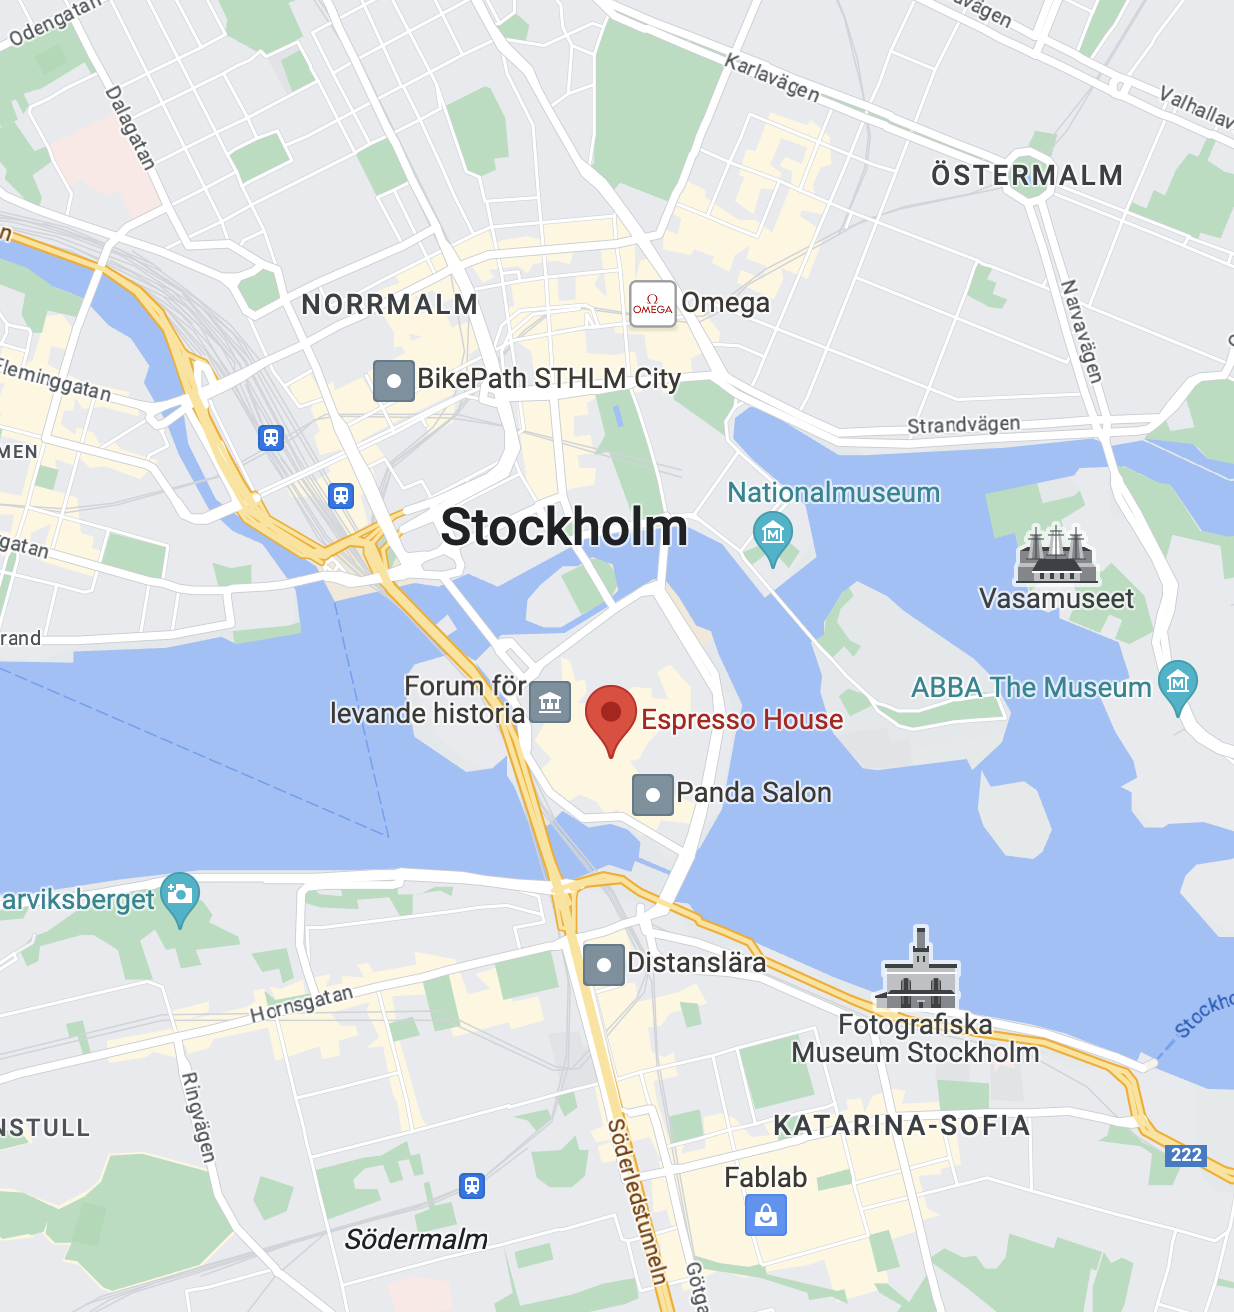
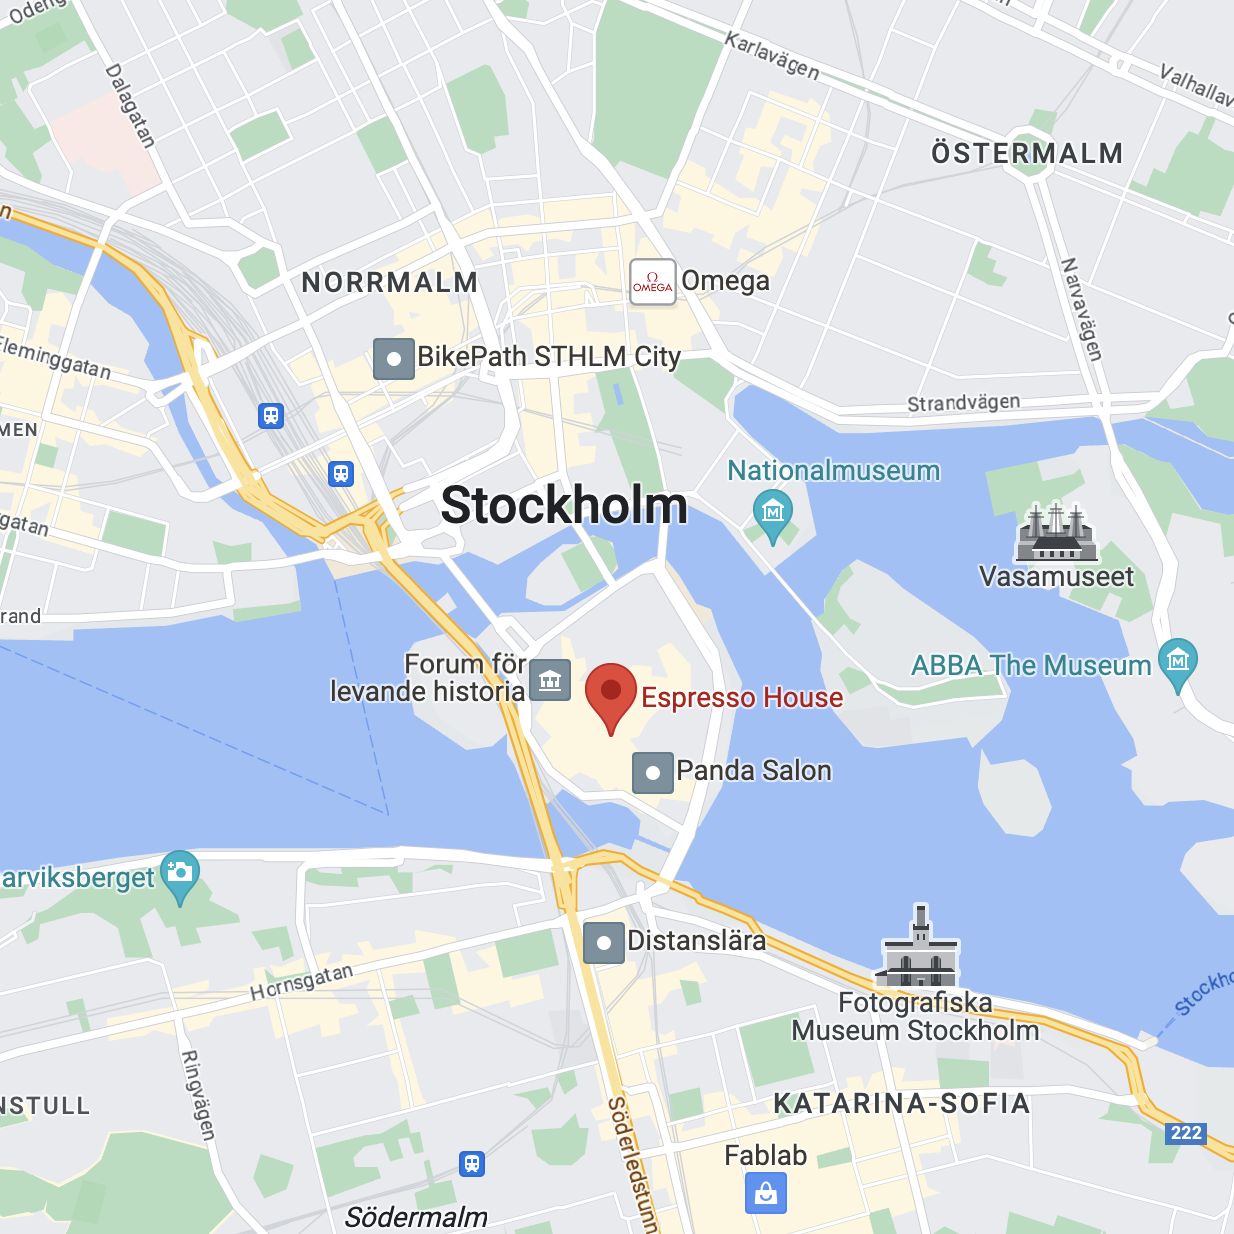
Made the circle round

diff --git a/app/contact/page.tsx b/app/contact/page.tsx
@@ -26,7 +26,7 @@ export default function Page() {
                         You can often find me at the Espresso House in Old Town, Stockholm. It&apos;s a cafe I frequently visit, whether it&apos;s for a cup of coffee, a quick meeting, or some quiet time to work on my projects. If you ever find yourself in the area, feel free to drop by, and maybe we can catch up over a cup of coffee.
                     </div>
                     <Link href={`https://maps.app.goo.gl/heftvzGRi3snH9r38`} target="_blank">
-                        <Image className="m-auto rounded-full" src={'/map.png'} alt="" width={360} height={360}/>
+                        <Image className="m-auto rounded-full" src={'/map.png'} alt="" width={340} height={340}/>
                     </Link>
                     <div className="p-4 m-auto text-xs text-center">
                         <Link href={`https://maps.app.goo.gl/heftvzGRi3snH9r38`} target="_blank">

diff --git a/app/ui/header/Header.tsx b/app/ui/header/Header.tsx
@@ -18,8 +18,6 @@ export function Header(){
     let width = size.width>1024?610:360;
     let height = size.width>1024?36:24;
 
-    console.log(size);
-
     return(
         <div className={(!isHomePage?`min-h-[52px] lg:min-h-[64px] headerBackActive`:``)+` headerBack border border-transparent transition-colors`}>
             <div className={'header p-1 b-[40] lg:b-[100]'} style={{transform: isHomePage?'translateY('+(size.height-(height*3))+'px)':'translateX('+((size.width-width)/2)+'px)'}}>
